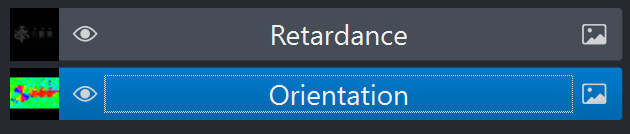
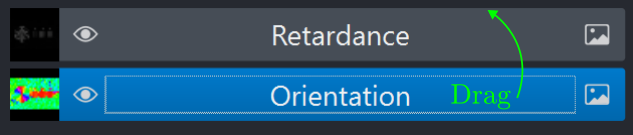
revised plugin guide

diff --git a/docs/napari-plugin-guide.md b/docs/napari-plugin-guide.md
@@ -1,4 +1,5 @@
 # Napari Plugin Guide
+This guide summarizes a complete `recOrder` workflow. 
 
 ## Launch `recOrder`
 Activate the `recOrder` environment
@@ -10,120 +11,162 @@ Launch `napari` with `recOrder`
 ```
 napari -w recOrder-napari
 ```
+## Connect to MicroManager
+Click “Connect to MM”. If the connection succeeds, proceed to calibration. If not, revisit the [microscope installation guide](./microscope-installation-guide.md).
+
+![](./images/connect_to_mm.png)
 
 ## Calibration tab
-The first step in the QLIPP process is to calibrate the liquid crystals. This process involves generating the polarization states and acquiring a background **on an empty FOV**, so begin by placing your sample on the stage and focusing on the surface of the coverslip or well. 
 
-The light path must also be in **Kohler Illumination** to ensure uniform illumination of the sample. [Please follow these steps to setup Kohler illumination.](https://www.microscopyu.com/tutorials/kohler)
+The first step in the acquisition process is to calibrate the liquid crystals and measure a background. In the `recOrder` plugin you will see the following options for controlling the calibration:
 
-After pressing “Connect to MM” and choosing a directory (where the calibration metadata / background images will be stored), the first step in calibration is to input the illumination wavelength and decide on the swing to use. 
+![](./images/run_calib.png)
 
-![](https://github.com/mehta-lab/recOrder/blob/main/docs/images/connect_to_mm.png)
 
-### Choose a swing value
-The swing value is the deviation away from circular illumination states. The larger the swing, the more elliptical the polarized states becomes, until finally reaching a linear state at `swing = 0.25`. Picking a swing is dependent on the anisotropy of the sample. We recommend
+### Prepare for a calibration
+Place your sample on the stage, focus on the surface of the coverlip/well, navigate to **an empty FOV**, then align the light source into **Kohler illumination** [following these steps.](https://www.microscopyu.com/tutorials/kohler)
+
+### Choose calibration parameters
+Browse for and choose a **Directory** where you calibration and background images will be saved.
+
+Choose a **Swing** based on the anisotropy of your sample. We recommend
 
 * Tissue Imaging: `swing = 0.1 - 0.05`
 * Live or fixed Cells: `swing = 0.05 – 0.03`
 
-We recommend starting with a swing of **0.1** for tissue samples and **0.05** for cells then reducing the swing to measure smaller structures.
+We recommend starting with a swing of **0.1** for tissue samples and **0.05** for cells then reducing the swing to measure smaller structures. See the [calibration guide](./calibration-guide.md) for more information about this parameter and the calibration process. 
 
-### Choose an illumination scheme
-The illumination scheme decides which polarization states to calibrate and use. We recommend sticking with the *4-State (Ext, 0, 60, 120)* scheme as it requires one less illumination state than the *5-State* scheme.
+Choose an **Illumination Scheme** to decides how many polarization states you will calibrate and use. We recommend starting with the *4-State (Ext, 0, 60, 120)* scheme as it requires one less illumination state than the *5-State* scheme.
+
+**Calibration Mode** is set automatically, so the default value is a good place to start. Different modes allow calibrations with voltages, retardances, or hardware sequencing. 
+
+The **Config Group** is set automatically to the MicroManager configuration group that contains the `State*` presets. You can modify this option if you have multple configuration groups with these presets. 
 
 ### Run the calibration
-Once the above parameters are set, the user is ready for "Run Calibration"
-
-![](https://github.com/mehta-lab/recOrder/blob/main/docs/images/run_calib.png)
+Start a calibration with **Run Calibration**. 
 
 The progress bar will show the progress of calibration, and it should take less than 2 minutes on most systems.
 
-The plot shows the intensities over time during the optimization. One way to diagnose if calibration is going smoothly is to look at the shape of this plot. An example of an ideal plot is below:
+The plot shows the intensities over time during calibration. One way to diagnose an in-progress calibration is to watch the intensity plot. An ideal plot will look similar to the following:
 
-![](https://github.com/mehta-lab/recOrder/blob/main/docs/images/ideal_plot.png)
+![](./images/ideal_plot.png)
 
-Once finished, you will get a calibration assessment and an extinction value. The calibration assessment will tell you if anything is incorrect with the light path or if calibration went awry. Extinctions gives you a metric for calibration quality—the higher the extinction, the cleaner the light path and the greater the sensitivity of QLIPP.
+Once finished, you will get a calibration assessment and an extinction value. The extinction value  gives you a metric for calibration quality: the higher the extinction, the cleaner the light path and the greater the sensitivity of QLIPP.
 
-* Extinction 0 – 50:  Very poor. The alignment of the universal compensator may be off or the sample chamber may be highly birefringent. 
+* **Extinction 0 – 50**:  Very poor. The alignment of the universal compensator may be off or the sample chamber may be highly birefringent. 
 
-* Extinction 50-100: Okay extinction, could be okay for tissue imaging and strong anisotropic structures. Most likely not suitable for cell imaging
+* **Extinction 50 - 100**: Okay extinction, could be okay for tissue imaging and strong anisotropic structures. Most likely not suitable for cell imaging
 
-* Extinction 100-200: Good Extinction. These are the typical values we get on our microscopes.
+* **Extinction 100 - 200**: Good Extinction. These are the typical values we get on our microscopes.
 
-* Extinction 200+: Excellent. Indicates a very well-aligned and clean light path and high sensitivity of the system.
+* **Extinction 200**+: Excellent. Indicates a very well-aligned and clean light path and high sensitivity of the system.
 
 For a deeper discussion of the calibration procedure, swing, and the extinction ratio, see the [calibration guide](./calibration-guide.md).
 
 ### Optional: Load Calibration
-If a user wants to use a previous calibration to acquire new data, then the "Load Calibration" button can be pressed.  It will direct you to select a *polarization_calibration.txt* file and these settings will be automatically updated in MicroManager. recOrder will also collect a few images to update the extinction ratio to reflect the current conditions. Once this has finished, a user can now acquire data as they normally would.  
+The **Load Calibration** button allows earlier calibrations to be reused. Select a *polarization_calibration.txt* file and MicroManager's presets will be updated with these settings. `recOrder`` will also collect a few images to update the extinction ratio to reflect the current condition of the light path. Once this short acquisition has finished, the user can acquire data as normal.  
 
-This is quite useful if micromanager and/or recOrder crashes. If the sample and imaging setup haven't changed, it is safe to use a past calibration. Otherwise, if a new sample is used or some microscope components are changed, we recommend performing a new calibration.
+This feature is useful if MicroManager and/or `recOrder`` crashes. If the sample and imaging setup haven't changed, it is safe to reuse a calibration. Otherwise, if the sample or the microscope changes, we recommend performing a new calibration.
 
 ### Optional: Calculate Extinction
-This is a useful feature to see if the extinction level varies as you move around the sample. Sometimes there can be local variations present in the sample which can cause slightly different perturbations to the polarization state. If the extinction level varies dramatically across the sample, it is worthwhile to calibrate and acquire background images as close to the area in which you will be imaging as possible.
+The **Calculate Extinction** button acquires a few images and recalculate the extinction value. 
+
+This feature is useful for checking if a new region of your sample requires a recalibration. If the sample or background varies as you move around the sample, the extinction will drop and you should recalibrate and acquire background images as close to the area in which you will be imaging as possible.
 
 ### Capture Background
-The next important step in the calibration process. This will later serve in reconstruction to correct for any local and global background anisotropy. 
 
-![](https://github.com/mehta-lab/recOrder/blob/main/docs/images/cap_bg.png)
+The **Capture Background** button will acquire several images under each of the calibrated polarization states, average them (we recommend 5), save them to specified **Background Folder Name** within the main **Directory** then display the result in napari layers.
 
-Choose the name of the folder to which to save your background images (will be placed into the save directory chosen at the beginning). Choose the number of images to average, 20 and below is generally good.  The background image results will then be displayed in the napari window.  It is normal to see some level of background retardance and orientation bias-- this can be corrected with the background correction step in reconstruction.  Examples of this display are below.
+![](./images/cap_bg.png)
 
-![](https://github.com/mehta-lab/recOrder/blob/main/docs/images/bg_example.png)
+It is normal to see background retardance and orientation. We will use these background images to correct the data we collect our acquisitions of the sample. 
 
 ### Advanced Tab
 The advanced tab gives the user a log output which can be useful for debugging purposes. There is a log level “debugging” which serves as a verbose output. Look here for any hints as to what may have gone wrong during calibration or acquisition.
 
-![](https://github.com/mehta-lab/recOrder/blob/main/docs/images/advanced.png)
-
-### Example of Successful Calibration
-Below is an example of a successful calibration with a reasonable extinction value:
-
-![](https://github.com/mehta-lab/recOrder/blob/main/docs/images/calib_finished.png)
-
 ## Acquisition / Reconstruction Tab
-This acquisition module is designed to take single image volumes for both phase and birefringence measurements and allows the user to test the outcome of their calibration with small snapshots or volumes. We recommend this acquisition mode for quick testing and the Micromanager MDA acquisition for high-throughput data collection.
+This acquisition tab is designed to take single image volumes for both phase and birefringence measurements to allow the user to test their calibration and background. We recommend this tab for quick testing and the Micromanager MDA acquisition for high-throughput data collection.
 
-### Save Path
-User specifies the directory in which the images will be saved.
+### Acquire Buttons
+![](./images/acquire_buttons.png)
+
+The **Retardance + Orientation**, **Phase From BF**, and **Retardance + Orientation + Phase** buttons set off MicroManager acquisitions that use the upcoming acquisition settings. After the acquisition is complete, these routines will set off `recOrder` reconstructions that estimate the named parameters. 
+
+The **STOP** button will end the acquisition as soon as possible, though MicroManager acquisitions cannot always be interrupted. 
 
 ### Acquisition Settings
-*Z Start, Z End, Z Step* specify the relative z-parameters to use for acquiring an image volume. Values are in the default units of the stage, typically in microns. The center slice will be the current position of the z-stage
+![](./images/acquisition_settings.png)
 
-![](https://github.com/mehta-lab/recOrder/blob/main/docs/images/acquisition.png)
+The **Acquisition Mode** sets the target shape for the reconstruction. Perhaps surprisingly, all 2D reconstructions require 3D data except for **Retardance + Orientation** in 2D **Acquisition Mode**. The following table summarizes the data that will be acquired with an acquisition button is pressed in **2D** and **3D** acquisition modes:
 
-Ex. for a 20 um thick cell, the user would first focus in the middle of the cell and then set the following parameters: 
+| **Acquisition** \ Acquisition Mode | 2D mode | 3D mode |  
+| :--- | :--- | :--- |
+| **Retardance + Orientation** | CYX data | CYX data | 
+| **Phase From BF** | ZYX data | ZYX data | 
+| **Retardance + Orientation + Phase** | CZYX data | CZYX data | 
 
-* `Z Start = -12`
-* `Z End: 12`
-* `Z Step: 0.25` 
+Unless a **Retardance + Orientation** reconstruction in 2D **Acquisition Mode** is requested, `recOrder` uses MicroManager's z-stage to acquire 3D data. **Z Start**, **Z End**, and **Z Step** are stage settings for acquiring an image volume, relative to the current position of the stage. Values are in the stage's default units, typically in microns.
 
-For phase reconstruction, the stack should have sufficient defocus along the top and bottom of the stack. The reconstruction algorithm uses the defocus information to more accurately reconstruct phase.
+For example, to image a 20 um thick cell the user would focus in the middle of the cell then choose
 
-User can then choose whether they want to acquire a 2D or 3D Birefringence/Phase stack. Note that even for a 2D phase stack, a full image volume is required for reconstruction purposes.
+* **Z Start** = -12
+* **Z End** = 12
+* **Z Step** =  0.25
 
-### Reconstruction Settings 
-These settings are solely for reconstructing the acquired image / image volume. The *Phase Only* parameters are only needed for reconstructing phase. The user is also able to specify the use of a GPU for reconstruction (requires CuPy / CudaToolKit) if present, otherwise leave blank.
+For phase reconstruction, the stack should have about two depths-of-focus above and below the edges of the sample because the reconstruction algorithm uses the defocus information to more accurately reconstruct phase.
 
-Explanation of background correction methods:
-  
-* None: No background correction is performed. 
-* Measured: Corrects sample images with a background image acquired at an empty field of view, loaded from "Background Path". 
-* Estimated: Estimate the sample background by fitting a 2D surface to the sample images. Works well when structures are spatially distributed across the field of view and a clear background is unavailable.
-* Measured + Estimated: Applies "Measured" background correction and then "Estimated" background correction. Use to remove residual background after the sample retardance is corrected with measured background.
+### General Reconstruction Settings 
+![](./images/general_reconstruction_settings.png)
 
-An explanation of phase reconstruction parameters:
+The **Save Directory** and **Save Name** are where the acquired data (`<save_dir>/<save_name>_snap_<n>/raw_data.zarr`) and reconstructions (`<save_dir>/<save_name>_snap_<n>/reconstruction.zarr`) will be saved. 
+
+The **Background Correction** menu has several option (each with mouseover explanations):
+* **None**: No background correction is performed. 
+* **Measured**: Corrects sample images with a background image acquired at an empty field of view, loaded from **Background Path**, by default the most recent background acquisition. 
+* **Estimated**: Estimates the sample background by fitting a 2D surface to the sample images. Works well when structures are spatially distributed across the field of view and a clear background is unavailable.
+* **Measured + Estimated**: Applies a **Measured** background correction and then an **Estimated** background correction. Use to remove residual background after the sample retardance is corrected with measured background.
+
+The remaining parameters are used by the reconstructions:
  
-* Wavelength (nm): Wavelength used for illumination
-* Objective NA: Numerical Aperture of Objective, typically found next to magnification
-* Condenser NA: Numerical Aperture of Condenser
-* Magnification: Magnfication of the objective
-* Camera Pixel Size: Pixel size of the camera in microns (ex. 6.5)
-* RI of Obj Media: Refractive index of the objective media. Defaults to air (1.003). Typical values also include 1.512 (oil) or 1.473 (glycerol).
-* Z Padding: The number of slices to pad on either end of the stack in order to correct for edge reflection artifacts. Necessary if the sample is not fully out of focus on either end of the stack.
+* **GPU ID**: Not implemented
+* **Wavelength (nm)**: Illumination wavelength
+* **Objective NA**: numerical aperture of the objective, typically found next to magnification
+* **Condenser NA**: numerical aperture of the condenser
+* **Camera Pixel Size (um)**: Pixel size of the camera in microns (ex. 6.5)
+* **RI of Obj. Media**: Refractive index of the objective media. Typical values are 1.0 (air), 1.3 (water), 1.473 (glycerol), or 1.512 (oil)
+* **Magnification**: Magnification of the objective
+* **Rotate Orientation (90 deg)**: Rotates "Orientation" reconstructions by +90 degrees clockwise and saves the result, most useful when a known-orientation sample is available
+* **Flip Orientation (90 deg)**: Flips "Orientation" reconstructions about napari's horizontal axis and saves the result
+* **Invert Phase Contrast**: Inverts the phase reconstruction's contrast by flipping the positive and negative directions of the stage during the reconstruction, and saves the result 
+
+### Phase Reconstruction Settings
+![](./images/phase_reconstruction_settings.png)
+These parameters are used only by phase reconstructions
+
+* **Z Padding**: The number of slices to pad on either end of the stack in order to correct for edge reflection artifacts, necessary if the sample is not fully out of focus on either end of the stack
+* **Regularizer**: Choose "Tikhonov", he "TV" regularizer is not implemented
+* **Strength**: The Tikhonov regularization strength. Too small/large will result in reconstructions that are too noisy/smooth
 
 The acquired data will then be displayed in the `napari` window. Note that phase reconstruction is more computationally expensive and may take several minutes depending on your system.
 
 Examples of acquiring 2D birefringence data (kidney tissue) with this snap method are below:
 
-![](https://github.com/mehta-lab/recOrder/blob/main/docs/images/acq_finished.png)
+![](./images/acq_finished.png)
+
+### Recreating reconstructions
+`recOrder`'s GUI acquires data from MicroManager, reads the GUI to generate a configuration file, then uses a CLI to reconstruct the acquired data with the configuration file. This means all reconstructions are exactly reproducible via a CLI. See the terminal that started napari for a log of the exact CLI commands to use to reproduce the results in the napari window. 
+
+See the [reconstruction guide](./reconstruction-guide.md) for detailed CLI usage. 
+
+## Visualizations
+When an **Orientation*** layer appears at the top of the layers list, `recOrder` will automatically color it with an HSV color map that indicates the orientation. 
+
+If the **Orientation*** layer has a matching **Retardance*** layer in the layer list, a **BirefringenceOverlay*** layer that only shows orientation colors in regions with large retardance is generated. This overlay is computed lazily (when the slider moves), and this computation can be turned off by hiding the layer (eyeball in the layer list).
+
+![](./images/overlay.png)
+
+If the **BirefringenceOverlay*** needs to be regenerated, an **Orientation*** layer can be dragged to the top of the layer list:
+![](./images/no-overlay.png)
+
+The **Orientation Legend** tab shows the mapping between HSV colors and the orientation, and the **Overlay Retardance Maximum** slider controls the mapping between retardance values and saturated colors in the overlay.
+![](./images/overlay-demo.png)
